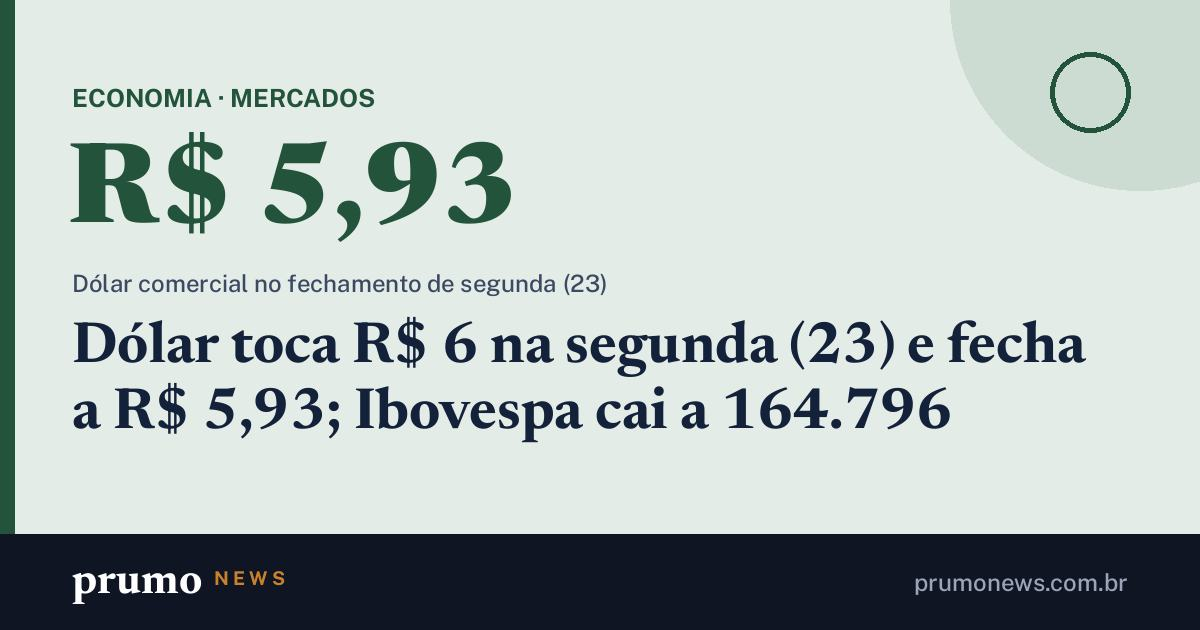
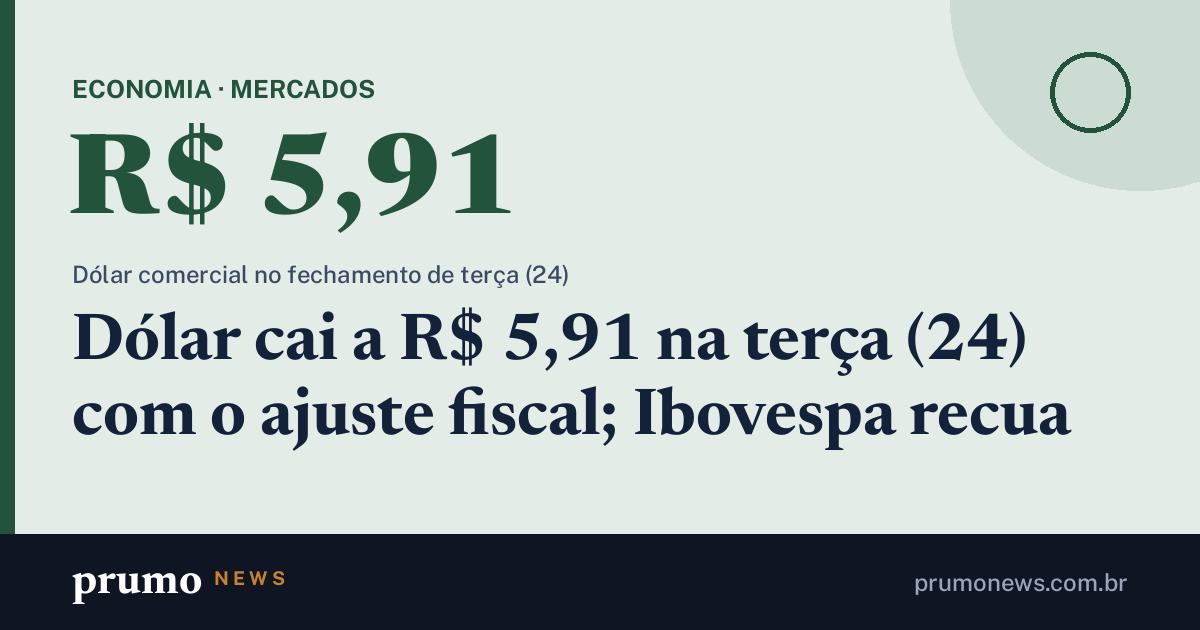
Páginas de compartilhamento 24/11 18h52

Changed region(s): [[0.0617, 0.4222, 0.925, 0.7238], [0.0617, 0.1206, 0.3083, 0.3619], [0.2158, 0.2111, 0.4317, 0.3921]]

diff --git a/m/ajuste-fiscal-lula-4.html b/m/ajuste-fiscal-lula-4.html
@@ -3,22 +3,20 @@
 <head>
 <meta charset="utf-8">
 <meta name="viewport" content="width=device-width, initial-scale=1">
-<title>Câmara aprova ajuste fiscal por 353 a 128; pacote limita gastos e vai à sanção · Prumo News</title>
-<meta name="description" content="O texto do Senado passou sem alterações e segue para a sanção; parte da bancada do PT não votou a favor.">
-<link rel="canonical" href="https://prumonews.com.br/m/camara-aprova-ajuste-fiscal-por-353-a-128-pacote-limita-gastos-e-vai-a.html">
+<title>Lula sanciona o ajuste fiscal, e a lei já vale · Prumo News</title>
+<meta name="description" content="A Câmara aprovou o texto do Senado sem alterações na segunda (23), por 353 a 128; o pacote cria gatilhos para a meta de 2027.">
+<link rel="canonical" href="https://prumonews.com.br/m/lula-sanciona-o-ajuste-fiscal-e-a-lei-ja-vale.html">
 <meta property="og:type" content="article">
 <meta property="og:site_name" content="Prumo News">
 <meta property="og:locale" content="pt_BR">
-<meta property="og:title" content="Câmara aprova ajuste fiscal por 353 a 128; pacote limita gastos e vai à sanção">
-<meta property="og:description" content="O texto do Senado passou sem alterações e segue para a sanção; parte da bancada do PT não votou a favor.">
-<meta property="og:url" content="https://prumonews.com.br/m/camara-aprova-ajuste-fiscal-por-353-a-128-pacote-limita-gastos-e-vai-a.html">
-<meta property="og:image" content="https://prumonews.com.br/m/og/ajuste-fiscal-lula-4.jpg?v=403e5b6f56">
-<meta property="og:image:width" content="1200">
-<meta property="og:image:height" content="630">
+<meta property="og:title" content="Lula sanciona o ajuste fiscal, e a lei já vale">
+<meta property="og:description" content="A Câmara aprovou o texto do Senado sem alterações na segunda (23), por 353 a 128; o pacote cria gatilhos para a meta de 2027.">
+<meta property="og:url" content="https://prumonews.com.br/m/lula-sanciona-o-ajuste-fiscal-e-a-lei-ja-vale.html">
+<meta property="og:image" content="https://upload.wikimedia.org/wikipedia/commons/thumb/d/d2/Foto_oficial_de_Luiz_In%C3%A1cio_Lula_da_Silva_%28m%C3%A3o_pitoca%29.jpg/960px-Foto_oficial_de_Luiz_In%C3%A1cio_Lula_da_Silva_%28m%C3%A3o_pitoca%29.jpg">
 <meta name="twitter:card" content="summary_large_image">
 <meta name="theme-color" content="#0f1522">
 <script>location.replace("/#m=ajuste-fiscal-lula-4")</script>
 <style>body{margin:0;font:16px/1.5 system-ui,sans-serif;background:#0f1522;color:#e8ecf2;display:grid;place-items:center;min-height:100vh;padding:24px;box-sizing:border-box;text-align:center}a{color:#e6b673}</style>
 </head>
-<body><p><a href="/#m=ajuste-fiscal-lula-4">Câmara aprova ajuste fiscal por 353 a 128; pacote limita gastos e vai à sanção</a><br>Abrindo no Prumo News…</p></body>
+<body><p><a href="/#m=ajuste-fiscal-lula-4">Lula sanciona o ajuste fiscal, e a lei já vale</a><br>Abrindo no Prumo News…</p></body>
 </html>

diff --git a/m/dolar-volta-acima-5.html b/m/dolar-volta-acima-5.html
@@ -3,16 +3,16 @@
 <head>
 <meta charset="utf-8">
 <meta name="viewport" content="width=device-width, initial-scale=1">
-<title>Dólar toca R$ 6 na segunda (23) e fecha a R$ 5,93; Ibovespa cai a 164.796 · Prumo News</title>
-<meta name="description" content="O dólar encostou em R$ 6 na segunda (23) e recuou no fechamento; a Câmara aprovou o ajuste fiscal depois do pregão.">
-<link rel="canonical" href="https://prumonews.com.br/m/dolar-toca-r-6-na-segunda-23-e-fecha-a-ibovespa-cai-a.html">
+<title>Dólar cai a R$ 5,91 na terça (24) com o ajuste fiscal; Ibovespa recua · Prumo News</title>
+<meta name="description" content="O dólar recuou na terça (24), com o ajuste fiscal em foco, depois de tocar R$ 6 na segunda (23).">
+<link rel="canonical" href="https://prumonews.com.br/m/dolar-cai-a-na-com-o-ajuste-fiscal-ibovespa-recua.html">
 <meta property="og:type" content="article">
 <meta property="og:site_name" content="Prumo News">
 <meta property="og:locale" content="pt_BR">
-<meta property="og:title" content="Dólar toca R$ 6 na segunda (23) e fecha a R$ 5,93; Ibovespa cai a 164.796">
-<meta property="og:description" content="O dólar encostou em R$ 6 na segunda (23) e recuou no fechamento; a Câmara aprovou o ajuste fiscal depois do pregão.">
-<meta property="og:url" content="https://prumonews.com.br/m/dolar-toca-r-6-na-segunda-23-e-fecha-a-ibovespa-cai-a.html">
-<meta property="og:image" content="https://prumonews.com.br/m/og/dolar-volta-acima-5.jpg?v=fcb7064f4c">
+<meta property="og:title" content="Dólar cai a R$ 5,91 na terça (24) com o ajuste fiscal; Ibovespa recua">
+<meta property="og:description" content="O dólar recuou na terça (24), com o ajuste fiscal em foco, depois de tocar R$ 6 na segunda (23).">
+<meta property="og:url" content="https://prumonews.com.br/m/dolar-cai-a-na-com-o-ajuste-fiscal-ibovespa-recua.html">
+<meta property="og:image" content="https://prumonews.com.br/m/og/dolar-volta-acima-5.jpg?v=6a9ffbd3d1">
 <meta property="og:image:width" content="1200">
 <meta property="og:image:height" content="630">
 <meta name="twitter:card" content="summary_large_image">
@@ -20,5 +20,5 @@
 <script>location.replace("/#m=dolar-volta-acima-5")</script>
 <style>body{margin:0;font:16px/1.5 system-ui,sans-serif;background:#0f1522;color:#e8ecf2;display:grid;place-items:center;min-height:100vh;padding:24px;box-sizing:border-box;text-align:center}a{color:#e6b673}</style>
 </head>
-<body><p><a href="/#m=dolar-volta-acima-5">Dólar toca R$ 6 na segunda (23) e fecha a R$ 5,93; Ibovespa cai a 164.796</a><br>Abrindo no Prumo News…</p></body>
+<body><p><a href="/#m=dolar-volta-acima-5">Dólar cai a R$ 5,91 na terça (24) com o ajuste fiscal; Ibovespa recua</a><br>Abrindo no Prumo News…</p></body>
 </html>

diff --git a/m/lula-janja-coordena-posse.html b/m/lula-janja-coordena-posse.html
@@ -3,20 +3,20 @@
 <head>
 <meta charset="utf-8">
 <meta name="viewport" content="width=device-width, initial-scale=1">
-<title>Posse de Lula terá telões na Esplanada e atrações já confirmadas · Prumo News</title>
+<title>Milei fica fora da lista de convidados da posse de Lula · Prumo News</title>
 <meta name="description" content="A transmissão ao vivo da EBC será nos telões da Esplanada; Janja coordena a cerimônia, e Lula ainda vai tratar dos detalhes com Alcolumbre.">
-<link rel="canonical" href="https://prumonews.com.br/m/posse-de-lula-tera-teloes-na-esplanada-e-atracoes-ja-confirmadas.html">
+<link rel="canonical" href="https://prumonews.com.br/m/milei-fica-fora-da-lista-de-convidados-da-posse-de-lula.html">
 <meta property="og:type" content="article">
 <meta property="og:site_name" content="Prumo News">
 <meta property="og:locale" content="pt_BR">
-<meta property="og:title" content="Posse de Lula terá telões na Esplanada e atrações já confirmadas">
+<meta property="og:title" content="Milei fica fora da lista de convidados da posse de Lula">
 <meta property="og:description" content="A transmissão ao vivo da EBC será nos telões da Esplanada; Janja coordena a cerimônia, e Lula ainda vai tratar dos detalhes com Alcolumbre.">
-<meta property="og:url" content="https://prumonews.com.br/m/posse-de-lula-tera-teloes-na-esplanada-e-atracoes-ja-confirmadas.html">
-<meta property="og:image" content="https://upload.wikimedia.org/wikipedia/commons/thumb/d/d2/Foto_oficial_de_Luiz_In%C3%A1cio_Lula_da_Silva_%28m%C3%A3o_pitoca%29.jpg/960px-Foto_oficial_de_Luiz_In%C3%A1cio_Lula_da_Silva_%28m%C3%A3o_pitoca%29.jpg">
+<meta property="og:url" content="https://prumonews.com.br/m/milei-fica-fora-da-lista-de-convidados-da-posse-de-lula.html">
+<meta property="og:image" content="https://upload.wikimedia.org/wikipedia/commons/thumb/2/22/Javier_Milei_VIVA_24_%282%29_%28cropped%29.jpg/960px-Javier_Milei_VIVA_24_%282%29_%28cropped%29.jpg">
 <meta name="twitter:card" content="summary_large_image">
 <meta name="theme-color" content="#0f1522">
 <script>location.replace("/#m=lula-janja-coordena-posse")</script>
 <style>body{margin:0;font:16px/1.5 system-ui,sans-serif;background:#0f1522;color:#e8ecf2;display:grid;place-items:center;min-height:100vh;padding:24px;box-sizing:border-box;text-align:center}a{color:#e6b673}</style>
 </head>
-<body><p><a href="/#m=lula-janja-coordena-posse">Posse de Lula terá telões na Esplanada e atrações já confirmadas</a><br>Abrindo no Prumo News…</p></body>
+<body><p><a href="/#m=lula-janja-coordena-posse">Milei fica fora da lista de convidados da posse de Lula</a><br>Abrindo no Prumo News…</p></body>
 </html>

diff --git a/m/alcolumbre-advocacia-senado-van-hattem.html b/m/alcolumbre-advocacia-senado-van-hattem.html
@@ -1,0 +1,22 @@
+<!doctype html>
+<html lang="pt-BR">
+<head>
+<meta charset="utf-8">
+<meta name="viewport" content="width=device-width, initial-scale=1">
+<title>Alcolumbre autoriza Advocacia do Senado a defender Van Hattem no STF · Prumo News</title>
+<meta name="description" content="A medida responde a um pedido da oposição para defender a imunidade parlamentar.">
+<link rel="canonical" href="https://prumonews.com.br/m/alcolumbre-autoriza-advocacia-do-senado-a-defender-van-hattem-no-stf.html">
+<meta property="og:type" content="article">
+<meta property="og:site_name" content="Prumo News">
+<meta property="og:locale" content="pt_BR">
+<meta property="og:title" content="Alcolumbre autoriza Advocacia do Senado a defender Van Hattem no STF">
+<meta property="og:description" content="A medida responde a um pedido da oposição para defender a imunidade parlamentar.">
+<meta property="og:url" content="https://prumonews.com.br/m/alcolumbre-autoriza-advocacia-do-senado-a-defender-van-hattem-no-stf.html">
+<meta property="og:image" content="https://upload.wikimedia.org/wikipedia/commons/thumb/8/87/Douglas_Tavolaro_Rodrigo_Maia_Davi_Alcolumbre_%2849645040748%29.jpg/960px-Douglas_Tavolaro_Rodrigo_Maia_Davi_Alcolumbre_%2849645040748%29.jpg">
+<meta name="twitter:card" content="summary_large_image">
+<meta name="theme-color" content="#0f1522">
+<script>location.replace("/#m=alcolumbre-advocacia-senado-van-hattem")</script>
+<style>body{margin:0;font:16px/1.5 system-ui,sans-serif;background:#0f1522;color:#e8ecf2;display:grid;place-items:center;min-height:100vh;padding:24px;box-sizing:border-box;text-align:center}a{color:#e6b673}</style>
+</head>
+<body><p><a href="/#m=alcolumbre-advocacia-senado-van-hattem">Alcolumbre autoriza Advocacia do Senado a defender Van Hattem no STF</a><br>Abrindo no Prumo News…</p></body>
+</html>

diff --git a/m/alcolumbre-autoriza-advocacia-do-senado-a-defender-van-hattem-no-stf.html b/m/alcolumbre-autoriza-advocacia-do-senado-a-defender-van-hattem-no-stf.html
@@ -1,0 +1,22 @@
+<!doctype html>
+<html lang="pt-BR">
+<head>
+<meta charset="utf-8">
+<meta name="viewport" content="width=device-width, initial-scale=1">
+<title>Alcolumbre autoriza Advocacia do Senado a defender Van Hattem no STF · Prumo News</title>
+<meta name="description" content="A medida responde a um pedido da oposição para defender a imunidade parlamentar.">
+<link rel="canonical" href="https://prumonews.com.br/m/alcolumbre-autoriza-advocacia-do-senado-a-defender-van-hattem-no-stf.html">
+<meta property="og:type" content="article">
+<meta property="og:site_name" content="Prumo News">
+<meta property="og:locale" content="pt_BR">
+<meta property="og:title" content="Alcolumbre autoriza Advocacia do Senado a defender Van Hattem no STF">
+<meta property="og:description" content="A medida responde a um pedido da oposição para defender a imunidade parlamentar.">
+<meta property="og:url" content="https://prumonews.com.br/m/alcolumbre-autoriza-advocacia-do-senado-a-defender-van-hattem-no-stf.html">
+<meta property="og:image" content="https://upload.wikimedia.org/wikipedia/commons/thumb/8/87/Douglas_Tavolaro_Rodrigo_Maia_Davi_Alcolumbre_%2849645040748%29.jpg/960px-Douglas_Tavolaro_Rodrigo_Maia_Davi_Alcolumbre_%2849645040748%29.jpg">
+<meta name="twitter:card" content="summary_large_image">
+<meta name="theme-color" content="#0f1522">
+<script>location.replace("/#m=alcolumbre-advocacia-senado-van-hattem")</script>
+<style>body{margin:0;font:16px/1.5 system-ui,sans-serif;background:#0f1522;color:#e8ecf2;display:grid;place-items:center;min-height:100vh;padding:24px;box-sizing:border-box;text-align:center}a{color:#e6b673}</style>
+</head>
+<body><p><a href="/#m=alcolumbre-advocacia-senado-van-hattem">Alcolumbre autoriza Advocacia do Senado a defender Van Hattem no STF</a><br>Abrindo no Prumo News…</p></body>
+</html>

diff --git a/m/milei-fica-fora-da-lista-de-convidados-da-posse-de-lula.html b/m/milei-fica-fora-da-lista-de-convidados-da-posse-de-lula.html
@@ -1,0 +1,22 @@
+<!doctype html>
+<html lang="pt-BR">
+<head>
+<meta charset="utf-8">
+<meta name="viewport" content="width=device-width, initial-scale=1">
+<title>Milei fica fora da lista de convidados da posse de Lula · Prumo News</title>
+<meta name="description" content="A transmissão ao vivo da EBC será nos telões da Esplanada; Janja coordena a cerimônia, e Lula ainda vai tratar dos detalhes com Alcolumbre.">
+<link rel="canonical" href="https://prumonews.com.br/m/milei-fica-fora-da-lista-de-convidados-da-posse-de-lula.html">
+<meta property="og:type" content="article">
+<meta property="og:site_name" content="Prumo News">
+<meta property="og:locale" content="pt_BR">
+<meta property="og:title" content="Milei fica fora da lista de convidados da posse de Lula">
+<meta property="og:description" content="A transmissão ao vivo da EBC será nos telões da Esplanada; Janja coordena a cerimônia, e Lula ainda vai tratar dos detalhes com Alcolumbre.">
+<meta property="og:url" content="https://prumonews.com.br/m/milei-fica-fora-da-lista-de-convidados-da-posse-de-lula.html">
+<meta property="og:image" content="https://upload.wikimedia.org/wikipedia/commons/thumb/2/22/Javier_Milei_VIVA_24_%282%29_%28cropped%29.jpg/960px-Javier_Milei_VIVA_24_%282%29_%28cropped%29.jpg">
+<meta name="twitter:card" content="summary_large_image">
+<meta name="theme-color" content="#0f1522">
+<script>location.replace("/#m=lula-janja-coordena-posse")</script>
+<style>body{margin:0;font:16px/1.5 system-ui,sans-serif;background:#0f1522;color:#e8ecf2;display:grid;place-items:center;min-height:100vh;padding:24px;box-sizing:border-box;text-align:center}a{color:#e6b673}</style>
+</head>
+<body><p><a href="/#m=lula-janja-coordena-posse">Milei fica fora da lista de convidados da posse de Lula</a><br>Abrindo no Prumo News…</p></body>
+</html>

diff --git a/m/lula-sanciona-o-ajuste-fiscal-e-a-lei-ja-vale.html b/m/lula-sanciona-o-ajuste-fiscal-e-a-lei-ja-vale.html
@@ -1,0 +1,22 @@
+<!doctype html>
+<html lang="pt-BR">
+<head>
+<meta charset="utf-8">
+<meta name="viewport" content="width=device-width, initial-scale=1">
+<title>Lula sanciona o ajuste fiscal, e a lei já vale · Prumo News</title>
+<meta name="description" content="A Câmara aprovou o texto do Senado sem alterações na segunda (23), por 353 a 128; o pacote cria gatilhos para a meta de 2027.">
+<link rel="canonical" href="https://prumonews.com.br/m/lula-sanciona-o-ajuste-fiscal-e-a-lei-ja-vale.html">
+<meta property="og:type" content="article">
+<meta property="og:site_name" content="Prumo News">
+<meta property="og:locale" content="pt_BR">
+<meta property="og:title" content="Lula sanciona o ajuste fiscal, e a lei já vale">
+<meta property="og:description" content="A Câmara aprovou o texto do Senado sem alterações na segunda (23), por 353 a 128; o pacote cria gatilhos para a meta de 2027.">
+<meta property="og:url" content="https://prumonews.com.br/m/lula-sanciona-o-ajuste-fiscal-e-a-lei-ja-vale.html">
+<meta property="og:image" content="https://upload.wikimedia.org/wikipedia/commons/thumb/d/d2/Foto_oficial_de_Luiz_In%C3%A1cio_Lula_da_Silva_%28m%C3%A3o_pitoca%29.jpg/960px-Foto_oficial_de_Luiz_In%C3%A1cio_Lula_da_Silva_%28m%C3%A3o_pitoca%29.jpg">
+<meta name="twitter:card" content="summary_large_image">
+<meta name="theme-color" content="#0f1522">
+<script>location.replace("/#m=ajuste-fiscal-lula-4")</script>
+<style>body{margin:0;font:16px/1.5 system-ui,sans-serif;background:#0f1522;color:#e8ecf2;display:grid;place-items:center;min-height:100vh;padding:24px;box-sizing:border-box;text-align:center}a{color:#e6b673}</style>
+</head>
+<body><p><a href="/#m=ajuste-fiscal-lula-4">Lula sanciona o ajuste fiscal, e a lei já vale</a><br>Abrindo no Prumo News…</p></body>
+</html>

diff --git a/m/justica-condena-dois-reus-por-incendio-que-matou-10-no-ninho-do-urubu.html b/m/justica-condena-dois-reus-por-incendio-que-matou-10-no-ninho-do-urubu.html
@@ -1,0 +1,22 @@
+<!doctype html>
+<html lang="pt-BR">
+<head>
+<meta charset="utf-8">
+<meta name="viewport" content="width=device-width, initial-scale=1">
+<title>Justiça condena dois réus por incêndio que matou 10 no Ninho do Urubu · Prumo News</title>
+<meta name="description" content="A pena é de oito anos de detenção, em regime inicial semiaberto.">
+<link rel="canonical" href="https://prumonews.com.br/m/justica-condena-dois-reus-por-incendio-que-matou-10-no-ninho-do-urubu.html">
+<meta property="og:type" content="article">
+<meta property="og:site_name" content="Prumo News">
+<meta property="og:locale" content="pt_BR">
+<meta property="og:title" content="Justiça condena dois réus por incêndio que matou 10 no Ninho do Urubu">
+<meta property="og:description" content="A pena é de oito anos de detenção, em regime inicial semiaberto.">
+<meta property="og:url" content="https://prumonews.com.br/m/justica-condena-dois-reus-por-incendio-que-matou-10-no-ninho-do-urubu.html">
+<meta property="og:image" content="https://upload.wikimedia.org/wikipedia/commons/thumb/3/33/Sede_da_Pol%C3%ADcia_Federal_%2852830107256%29.jpg/960px-Sede_da_Pol%C3%ADcia_Federal_%2852830107256%29.jpg">
+<meta name="twitter:card" content="summary_large_image">
+<meta name="theme-color" content="#0f1522">
+<script>location.replace("/#m=ninho-urubu-condenacao-dois-reus")</script>
+<style>body{margin:0;font:16px/1.5 system-ui,sans-serif;background:#0f1522;color:#e8ecf2;display:grid;place-items:center;min-height:100vh;padding:24px;box-sizing:border-box;text-align:center}a{color:#e6b673}</style>
+</head>
+<body><p><a href="/#m=ninho-urubu-condenacao-dois-reus">Justiça condena dois réus por incêndio que matou 10 no Ninho do Urubu</a><br>Abrindo no Prumo News…</p></body>
+</html>

diff --git a/m/ninho-urubu-condenacao-dois-reus.html b/m/ninho-urubu-condenacao-dois-reus.html
@@ -1,0 +1,22 @@
+<!doctype html>
+<html lang="pt-BR">
+<head>
+<meta charset="utf-8">
+<meta name="viewport" content="width=device-width, initial-scale=1">
+<title>Justiça condena dois réus por incêndio que matou 10 no Ninho do Urubu · Prumo News</title>
+<meta name="description" content="A pena é de oito anos de detenção, em regime inicial semiaberto.">
+<link rel="canonical" href="https://prumonews.com.br/m/justica-condena-dois-reus-por-incendio-que-matou-10-no-ninho-do-urubu.html">
+<meta property="og:type" content="article">
+<meta property="og:site_name" content="Prumo News">
+<meta property="og:locale" content="pt_BR">
+<meta property="og:title" content="Justiça condena dois réus por incêndio que matou 10 no Ninho do Urubu">
+<meta property="og:description" content="A pena é de oito anos de detenção, em regime inicial semiaberto.">
+<meta property="og:url" content="https://prumonews.com.br/m/justica-condena-dois-reus-por-incendio-que-matou-10-no-ninho-do-urubu.html">
+<meta property="og:image" content="https://upload.wikimedia.org/wikipedia/commons/thumb/3/33/Sede_da_Pol%C3%ADcia_Federal_%2852830107256%29.jpg/960px-Sede_da_Pol%C3%ADcia_Federal_%2852830107256%29.jpg">
+<meta name="twitter:card" content="summary_large_image">
+<meta name="theme-color" content="#0f1522">
+<script>location.replace("/#m=ninho-urubu-condenacao-dois-reus")</script>
+<style>body{margin:0;font:16px/1.5 system-ui,sans-serif;background:#0f1522;color:#e8ecf2;display:grid;place-items:center;min-height:100vh;padding:24px;box-sizing:border-box;text-align:center}a{color:#e6b673}</style>
+</head>
+<body><p><a href="/#m=ninho-urubu-condenacao-dois-reus">Justiça condena dois réus por incêndio que matou 10 no Ninho do Urubu</a><br>Abrindo no Prumo News…</p></body>
+</html>

diff --git a/m/argentina-recessao-tecnica-setembro.html b/m/argentina-recessao-tecnica-setembro.html
@@ -1,0 +1,22 @@
+<!doctype html>
+<html lang="pt-BR">
+<head>
+<meta charset="utf-8">
+<meta name="viewport" content="width=device-width, initial-scale=1">
+<title>Economia argentina encolhe e entra em recessão técnica, dizem economistas · Prumo News</title>
+<meta name="description" content="A confirmação oficial viria em dezembro, com o PIB do terceiro trimestre.">
+<link rel="canonical" href="https://prumonews.com.br/m/economia-argentina-encolhe-e-entra-em-recessao-tecnica-dizem.html">
+<meta property="og:type" content="article">
+<meta property="og:site_name" content="Prumo News">
+<meta property="og:locale" content="pt_BR">
+<meta property="og:title" content="Economia argentina encolhe e entra em recessão técnica, dizem economistas">
+<meta property="og:description" content="A confirmação oficial viria em dezembro, com o PIB do terceiro trimestre.">
+<meta property="og:url" content="https://prumonews.com.br/m/economia-argentina-encolhe-e-entra-em-recessao-tecnica-dizem.html">
+<meta property="og:image" content="https://upload.wikimedia.org/wikipedia/commons/thumb/1/14/Obelisco_Buenos_Aires_desde_chalet_Diaz.jpg/960px-Obelisco_Buenos_Aires_desde_chalet_Diaz.jpg">
+<meta name="twitter:card" content="summary_large_image">
+<meta name="theme-color" content="#0f1522">
+<script>location.replace("/#m=argentina-recessao-tecnica-setembro")</script>
+<style>body{margin:0;font:16px/1.5 system-ui,sans-serif;background:#0f1522;color:#e8ecf2;display:grid;place-items:center;min-height:100vh;padding:24px;box-sizing:border-box;text-align:center}a{color:#e6b673}</style>
+</head>
+<body><p><a href="/#m=argentina-recessao-tecnica-setembro">Economia argentina encolhe e entra em recessão técnica, dizem economistas</a><br>Abrindo no Prumo News…</p></body>
+</html>

diff --git a/m/economia-argentina-encolhe-e-entra-em-recessao-tecnica-dizem.html b/m/economia-argentina-encolhe-e-entra-em-recessao-tecnica-dizem.html
@@ -1,0 +1,22 @@
+<!doctype html>
+<html lang="pt-BR">
+<head>
+<meta charset="utf-8">
+<meta name="viewport" content="width=device-width, initial-scale=1">
+<title>Economia argentina encolhe e entra em recessão técnica, dizem economistas · Prumo News</title>
+<meta name="description" content="A confirmação oficial viria em dezembro, com o PIB do terceiro trimestre.">
+<link rel="canonical" href="https://prumonews.com.br/m/economia-argentina-encolhe-e-entra-em-recessao-tecnica-dizem.html">
+<meta property="og:type" content="article">
+<meta property="og:site_name" content="Prumo News">
+<meta property="og:locale" content="pt_BR">
+<meta property="og:title" content="Economia argentina encolhe e entra em recessão técnica, dizem economistas">
+<meta property="og:description" content="A confirmação oficial viria em dezembro, com o PIB do terceiro trimestre.">
+<meta property="og:url" content="https://prumonews.com.br/m/economia-argentina-encolhe-e-entra-em-recessao-tecnica-dizem.html">
+<meta property="og:image" content="https://upload.wikimedia.org/wikipedia/commons/thumb/1/14/Obelisco_Buenos_Aires_desde_chalet_Diaz.jpg/960px-Obelisco_Buenos_Aires_desde_chalet_Diaz.jpg">
+<meta name="twitter:card" content="summary_large_image">
+<meta name="theme-color" content="#0f1522">
+<script>location.replace("/#m=argentina-recessao-tecnica-setembro")</script>
+<style>body{margin:0;font:16px/1.5 system-ui,sans-serif;background:#0f1522;color:#e8ecf2;display:grid;place-items:center;min-height:100vh;padding:24px;box-sizing:border-box;text-align:center}a{color:#e6b673}</style>
+</head>
+<body><p><a href="/#m=argentina-recessao-tecnica-setembro">Economia argentina encolhe e entra em recessão técnica, dizem economistas</a><br>Abrindo no Prumo News…</p></body>
+</html>

diff --git a/m/dolar-cai-a-na-com-o-ajuste-fiscal-ibovespa-recua.html b/m/dolar-cai-a-na-com-o-ajuste-fiscal-ibovespa-recua.html
@@ -1,0 +1,24 @@
+<!doctype html>
+<html lang="pt-BR">
+<head>
+<meta charset="utf-8">
+<meta name="viewport" content="width=device-width, initial-scale=1">
+<title>Dólar cai a R$ 5,91 na terça (24) com o ajuste fiscal; Ibovespa recua · Prumo News</title>
+<meta name="description" content="O dólar recuou na terça (24), com o ajuste fiscal em foco, depois de tocar R$ 6 na segunda (23).">
+<link rel="canonical" href="https://prumonews.com.br/m/dolar-cai-a-na-com-o-ajuste-fiscal-ibovespa-recua.html">
+<meta property="og:type" content="article">
+<meta property="og:site_name" content="Prumo News">
+<meta property="og:locale" content="pt_BR">
+<meta property="og:title" content="Dólar cai a R$ 5,91 na terça (24) com o ajuste fiscal; Ibovespa recua">
+<meta property="og:description" content="O dólar recuou na terça (24), com o ajuste fiscal em foco, depois de tocar R$ 6 na segunda (23).">
+<meta property="og:url" content="https://prumonews.com.br/m/dolar-cai-a-na-com-o-ajuste-fiscal-ibovespa-recua.html">
+<meta property="og:image" content="https://prumonews.com.br/m/og/dolar-volta-acima-5.jpg?v=6a9ffbd3d1">
+<meta property="og:image:width" content="1200">
+<meta property="og:image:height" content="630">
+<meta name="twitter:card" content="summary_large_image">
+<meta name="theme-color" content="#0f1522">
+<script>location.replace("/#m=dolar-volta-acima-5")</script>
+<style>body{margin:0;font:16px/1.5 system-ui,sans-serif;background:#0f1522;color:#e8ecf2;display:grid;place-items:center;min-height:100vh;padding:24px;box-sizing:border-box;text-align:center}a{color:#e6b673}</style>
+</head>
+<body><p><a href="/#m=dolar-volta-acima-5">Dólar cai a R$ 5,91 na terça (24) com o ajuste fiscal; Ibovespa recua</a><br>Abrindo no Prumo News…</p></body>
+</html>
